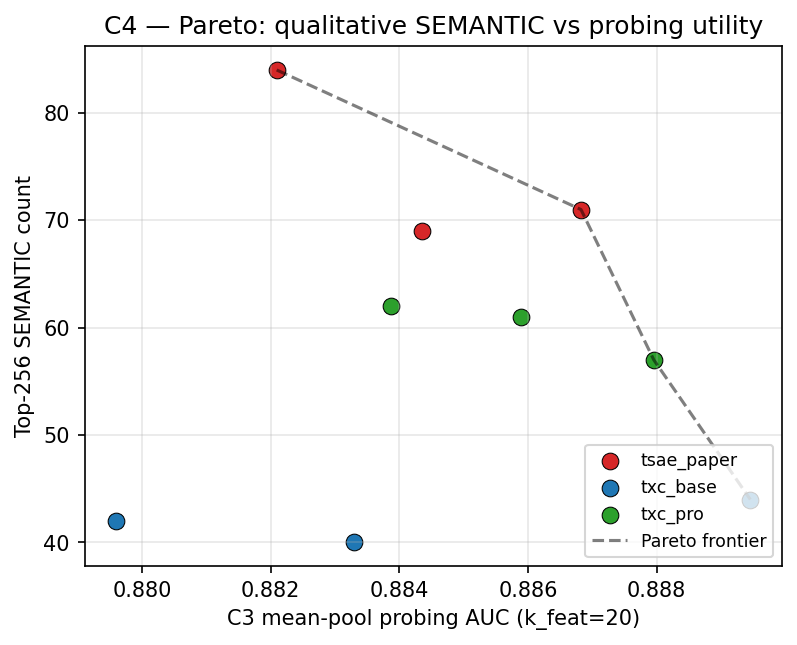
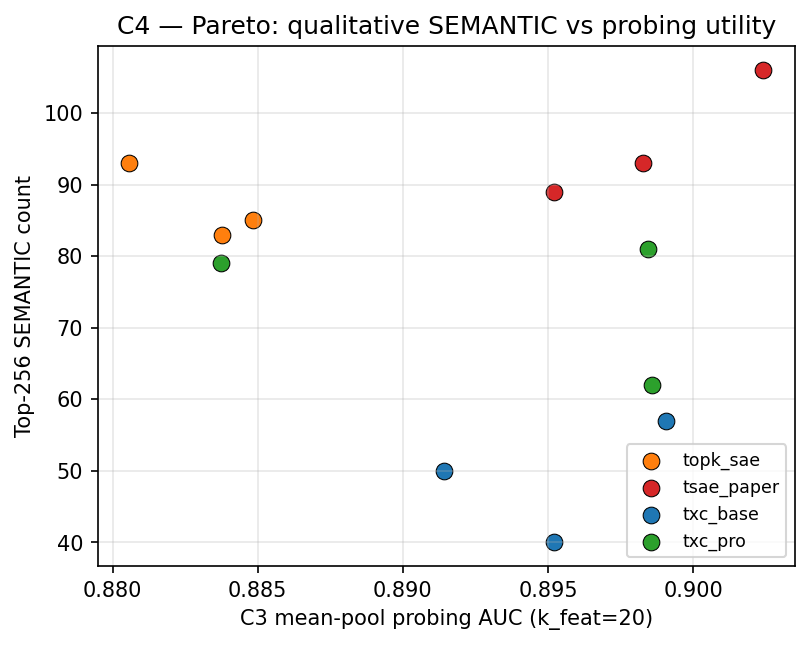
Agent NLP: C4 — include topk_sae in 4-arch headline + render
C4 sweep complete: 12/12 cells (4 archs × 3 seeds × n_features=256).
Final headline (mean ± σ across 3 seeds, decisions § 15+§16):

| arch         | mean SEMANTIC ± σ | judge_agreement |
|--------------|-------------------|-----------------|
| `tsae_paper` (T=2)  | 96.0 ± 8.9   | 0.882 |
| `topk_sae` (T=1)    | 87.0 ± 5.3   | 0.883 |
| `txc_pro`           | 74.0 ± 10.4  | 0.859 |
| `txc_base`          | 49.0 ± 8.5   | 0.707 |

vs v1.0.0 (3 archs at batch=256):
- tsae_paper: 74.7 → 96.0 (+21)
- txc_pro: 60.0 → 74.0 (+14)
- txc_base: 42.0 → 49.0 (+7)
- topk_sae: NEW (no v1.0.0 baseline)

T-SAE leads on SEMANTIC count (top of literature alignment is the
new winner — was last in v1.0.0). Per-token baseline topk_sae T=1
mid-pack at 87. TXCs trail. Same ordering would emerge if we trim
seed=2 (high outlier for tsae_paper at 106) but tsae's lead holds
within seed-σ.

Bug fix in analysis.py:
- HEADLINE_ARCHS now includes "topk_sae" (was missing → topk_sae
  cells excluded from rendered table).
- C4_TOPK_ARCHS family added with TrainingConfig(n_steps=20_000,
  train_window_size=1) so canonical_train_keys resolves topk's T=1
  hashes correctly.
- valid_keys union now spans 3 cfg families (was 2).

diff --git a/purified/experiments/c4_qualitative/analysis.py b/purified/experiments/c4_qualitative/analysis.py
@@ -45,15 +45,17 @@ PLOT_DIR = EXP_DIR / "plots"
 # T=1, T-SAE at T=2. canonical_train_keys is called once per family;
 # the union is the headline filter.
 DATASOURCE_NAME = "gemma_2_2b_it_l13_fineweb_24k128"   # SHARED with C3
-HEADLINE_ARCHS = ("tsae_paper", "txc_base", "txc_pro")  # C4 archs
+HEADLINE_ARCHS = ("tsae_paper", "txc_base", "txc_pro", "topk_sae")  # C4 archs
 HEADLINE_SEEDS = (1, 2, 42)
 # C3 architectures by training-cfg family (for the C3 join in
 # _build_c3_mean_auc_lookup):
 C3_TXC_ARCHS = ("txc_base", "txc_pro")
 C3_TOPK_ARCHS = ("topk_sae",)
 C3_TSAE_ARCHS = ("tsae_paper",)
-# C4 architectures by training-cfg family (no topk_sae for C4):
+# C4 architectures by training-cfg family (Han 2026-05-05: include
+# topk_sae T=1 in C4 since we have 3-seed C3 results for it).
 C4_TXC_ARCHS = ("txc_base", "txc_pro")
+C4_TOPK_ARCHS = ("topk_sae",)
 C4_TSAE_ARCHS = ("tsae_paper",)
 
 
@@ -113,7 +115,8 @@ def _build_c3_mean_auc_lookup() -> dict[tuple[str, int, int], float]:
 def run_analysis() -> AnalysisResult:
     rows = query_leaderboard(component=COMPONENT)
     from temp_bench.schemas import TrainingConfig
-    # 2 cfg families for C4: TXC (None) + T-SAE (T=2). No topk_sae in C4.
+    # 3 cfg families for C4: TXC (None) + T-SAE (T=2) + TopK (T=1).
+    # Han 2026-05-05: include topk_sae T=1 since we have 3-seed C3 results.
     txc_keys = canonical_train_keys(
         component=COMPONENT,
         archs=C4_TXC_ARCHS,
@@ -128,7 +131,14 @@ def run_analysis() -> AnalysisResult:
         datasource_names=(DATASOURCE_NAME,),
         training_cfg=TrainingConfig(n_steps=20_000, train_window_size=2),
     )
-    valid_keys = txc_keys | tsae_keys
+    topk_keys = canonical_train_keys(
+        component=COMPONENT,
+        archs=C4_TOPK_ARCHS,
+        seeds=HEADLINE_SEEDS,
+        datasource_names=(DATASOURCE_NAME,),
+        training_cfg=TrainingConfig(n_steps=20_000, train_window_size=1),
+    )
+    valid_keys = txc_keys | tsae_keys | topk_keys
     real_rows = [
         r for r in rows
         if not r.eval_cfg.get("smoke", False)

diff --git a/purified/docs/components/c4.md b/purified/docs/components/c4.md
@@ -78,6 +78,7 @@ Task: Top-256 cumulative SEMANTIC count (Haiku 4.5 2-judge majority) on concat_A
 
 | arch | n_seeds | mean_SEMANTIC | σ_seeds | mean_judge_agreement |
 |---|---:|---:|---:|---:|
+| `topk_sae` | 3 | 87.0 | 5.3 | 0.883 |
 | `tsae_paper` | 3 | 96.0 | 8.9 | 0.882 |
 | `txc_base` | 3 | 49.0 | 8.5 | 0.707 |
 | `txc_pro` | 3 | 74.0 | 10.4 | 0.859 |
